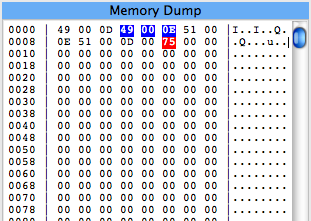
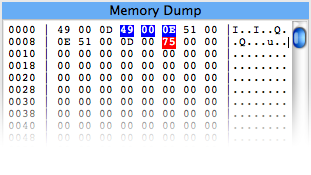
More help figure updates. Slight sizing fix to the tree widget in the help dialog
git-svn-id: http://pep8-1.googlecode.com/svn/trunk@297 0efa5a84-20a4-11de-9909-f37ff7dbbc12

diff --git a/help/machinelanguage.html b/help/machinelanguage.html
@@ -35,7 +35,7 @@ Writing a machine language program is a three-step process.
 With this Pep/8 application, you write the machine language program in hexadecimal in the Object Code pane.
 The following figure shows the object program from Figure 4.41 of the text.
 <p>
-<img src="qrc:/help/images/fig0434.png" alt="fig0434" hspace=10 vspace=10>
+<img src="qrc:/help/images/fig0441.png" alt="fig0441" hspace=10 vspace=10>
 <p>
 A hexadecimal program must follow precise formatting rules.
 Each hex number representing a byte must contain exactly two characters.
@@ -61,9 +61,7 @@ To execute the program select Build -> Execute from the menu.
 <p>
 With this program, the output appears in the output pane.
 <p>
-<i>We need to explain the input as well</i>
-<p>
-<img src="qrc:/help/images/fig0434io.png" alt="fig0434io" hspace=10 vspace=10>
+<img src="qrc:/help/images/fig0441output.png" alt="fig0441output" hspace=10 vspace=10>
 <p>
 <h3><a name="Run">The Run Object option</a></h3>
 

diff --git a/help/debuggingprograms.html b/help/debuggingprograms.html
@@ -62,7 +62,7 @@ Assemble it by selecting Build->Assemble from the menu or clicking on the hammer
  Then select Build->Start Debugging Source from the menu, or click on the icon with the bug in the toolbar, which puts you in the debugging mode.
 <p>
 <img src="qrc:/help/images/startdebuggingsource.png" alt="startdebuggingsource" hspace=10 vspace=10>
- <i>Image of startdebuggingsourceicon</i>
+<img src="qrc:/help/images/startdebuggingicon.png" alt="startdebuggingicon" hspace=10 vspace=10>
 <p>
 <h4>Tracing in debug mode</h4>
 While you are in the debugging mode, you can click the Single Step button in the CPU pane,

diff --git a/help/examples.html b/help/examples.html
@@ -19,7 +19,7 @@ To test a program click the Copy to Object button (for machine language programs
 Copy to Source button (for assembly language programs), and the program will be copied
 to the corresponding pane in the application.
 <p>
- <i>Screen shot of buttons and the effect of the click.</i>
+<img src="qrc:/help/images/pep8help.png" alt="pep8help" hspace=10 vspace=10>
 <p>
 You can then run or trace the program in the application as usual.
 <p>

diff --git a/memorydumppane.cpp b/memorydumppane.cpp
@@ -154,7 +154,7 @@ void MemoryDumpPane::highlightMemory(bool b)
             highlightedData.append(Sim::add(Sim::programCounter, 2));
         }
         else { // unary.
-            highlightByte(Sim::programCounter, Qt::white, Qt::darkBlue);
+            highlightByte(Sim::programCounter, Qt::white, Qt::blue);
             highlightedData.append(Sim::programCounter);
         }
 
